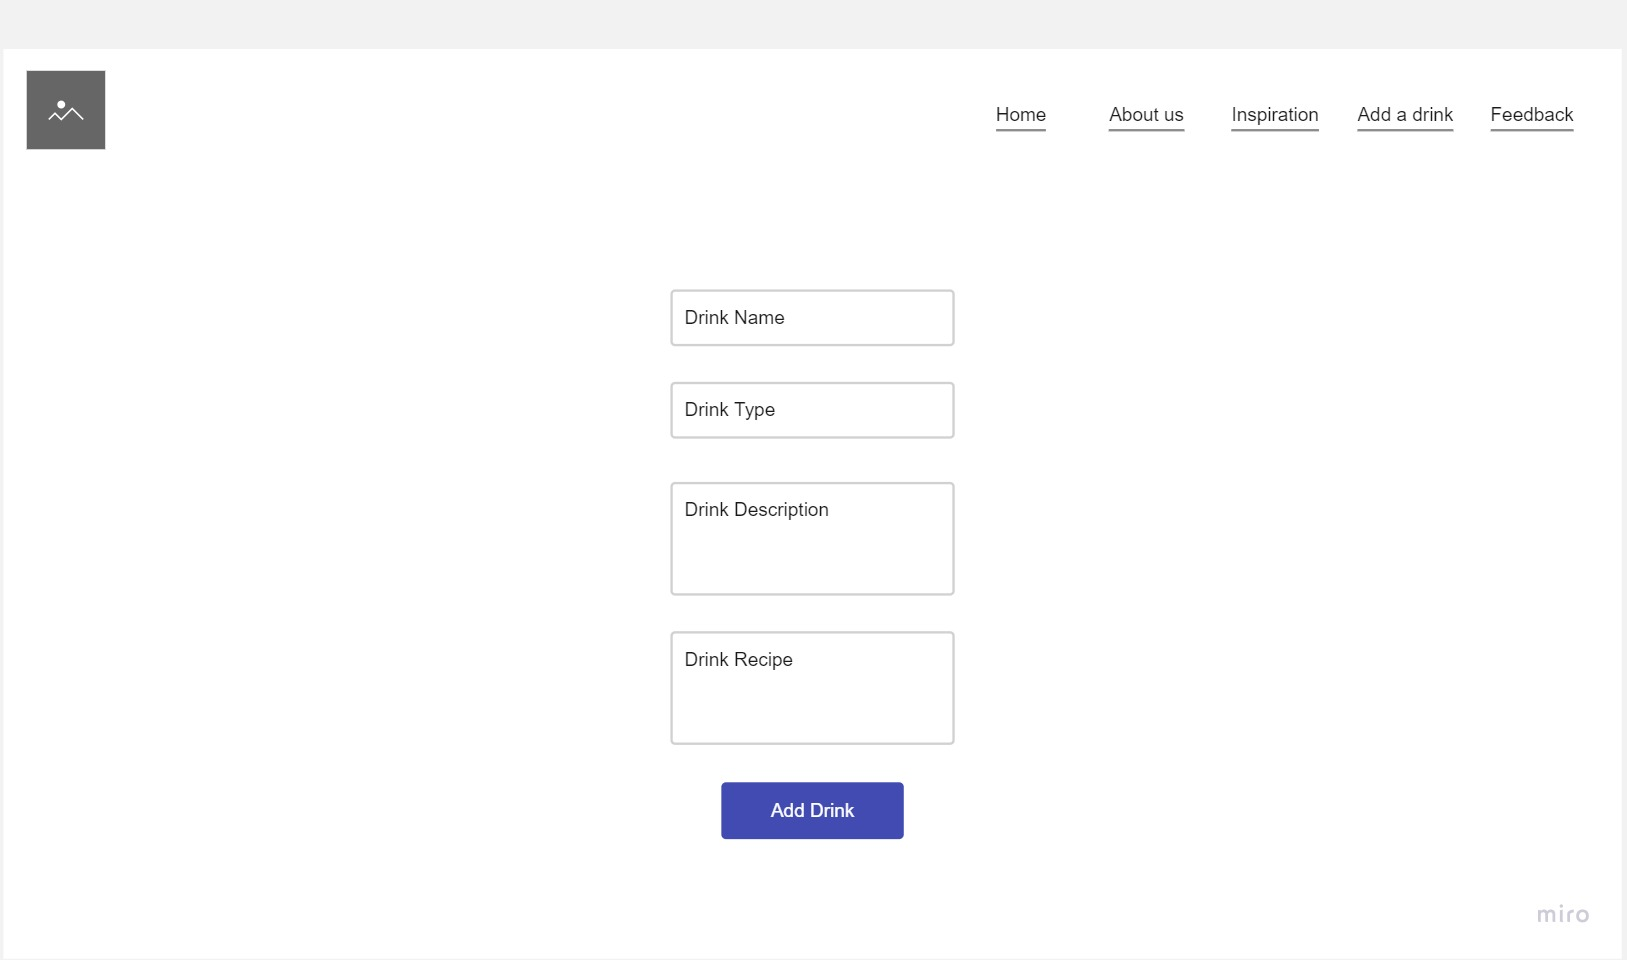
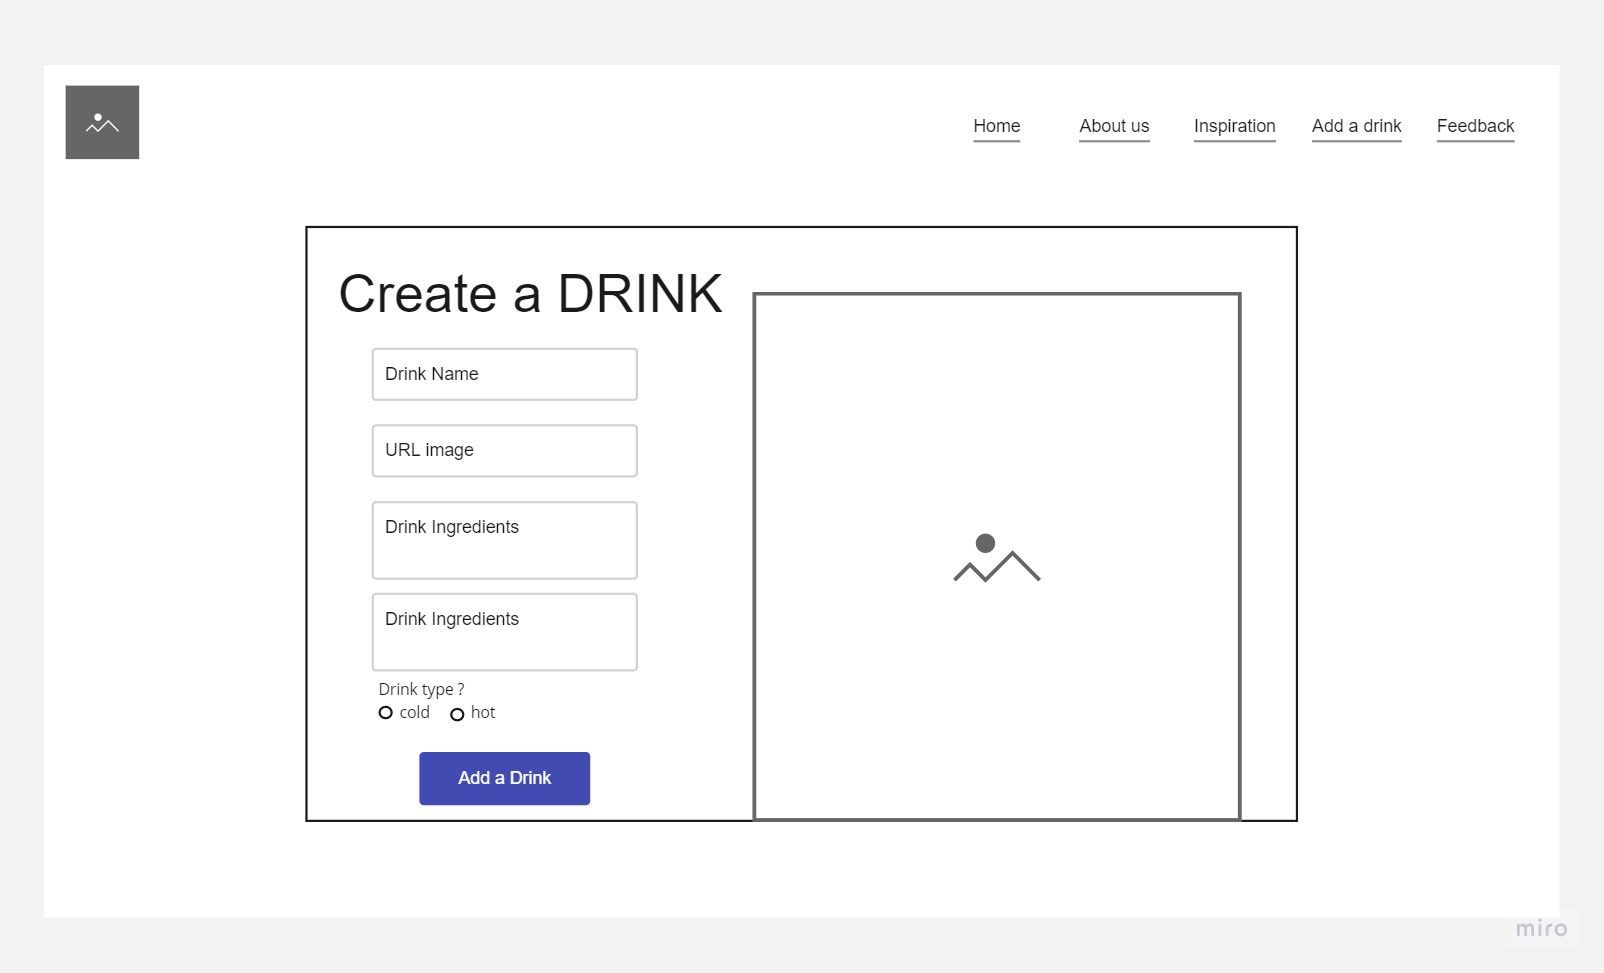
Edited the wireframes and design pages, and updated the readme file with the changes made

diff --git a/index.html b/index.html
@@ -1,0 +1,28 @@
+<!DOCTYPE html>
+<html lang="en">
+
+<head>
+    <meta charset="UTF-8">
+    <meta http-equiv="X-UA-Compatible" content="IE=edge">
+    <meta name="viewport" content="width=device-width, initial-scale=1.0">
+    <title>Home Page</title>
+</head>
+
+<body>
+    <header>
+        <img src="" alt="Logo">
+        <ul>
+            <li>Home</li>
+            <li>About</li>
+            <li>Add a Drink</li>
+            <li>Feedback</li>
+        </ul>
+    </header>
+    <main>
+        <img src="" alt="landing page">
+    </main>
+    <footer>
+    </footer>
+</body>
+
+</html>

diff --git a/README.md b/README.md
@@ -27,7 +27,7 @@ Our solution is to build a coffee recipes website called "Barista Brews" that pr
 
 ## Getting Started
 
-Simply clone the code to your local machine and run it in you desired editor. You will be navigated to a wonderful coffee theme interface which is the landing page (home page) where you can find a variety of coffee drinks for every mood and occasion.
+Simply clone the code to your local machine and run it in you desired editor. You will be navigated to a wonderful coffee themed interface which is the landing page (home page) for our website where you can find a variety of coffee drinks for every mood and occasion.
 
 ## Built With
 
@@ -35,25 +35,27 @@ Simply clone the code to your local machine and run it in you desired editor. Yo
 - CSS
 - JavaScript
 
+## Deployed Website
+
+- [Baresta Brews](https://design-test-fusion.github.io/Barista-Brews/)
+
 ## Wireframes
 
-<img src = "assets/Home_Page.jpg" alt = "Home page" width = "500" >
-<img src = "assets/Item_Page.jpg" alt = "Item Page" width = "500" >
-<img src = "assets/About_Page.jpg" alt = "About Page" width = "500">
+<img src = "assets/home_page.jpg" alt = "Home page" width = "500" >
+<img src = "assets/about_page.jpg" alt = "About Page" width = "500">
 
-<img src = "assets/Add_a_drink_page.jpg" alt = "add a new drink page" width = "500">
-<img src = "assets/Feedback_Page.jpg" alst = "Feedback" width = "500">
-<img src = "assets/Inspiration_Page.jpg" alt ="Inspiration Page" alt = "Ispiration Page" width = "500">
+<img src = "assets/Item_page.jpg" alt = "Item Page" width = "500" >
+<img src = "assets/add_a_drink_page.jpg" alt = "add a new drink page" width = "500">
+
+<img src = "assets/feedback_page.jpg" alst = "Feedback" width = "500">
 
 ## Snapshots
 
-<img src = "assets/Home_page2.png" alt ="Home page" width = "500">
-<img src = "assets/item_page2.png" alt ="item page" width = "500">
-
+<img src = "assets/Home_page.png" alt ="Home page" width = "500">
 <img src = "assets/about_page.png" alt ="about page" width = "500">
+
+<img src = "assets/item_page.png" alt ="item page" width = "500">
 <img src = "assets/about_page_member_details.png" alt ="about page member details" width = "500">
 
-<img src = "assets/add_a_drink_page2.png" alt ="add a drink page" width = "500">
+<img src = "assets/add_a_drink_page.png" alt ="add a drink page" width = "500">
 <img src = "assets/feedback.png" alt ="feedback" width = "500">
-
-<img src = "assets/inspiration_page2.png" alt ="Inspiration Page" width = "500">
